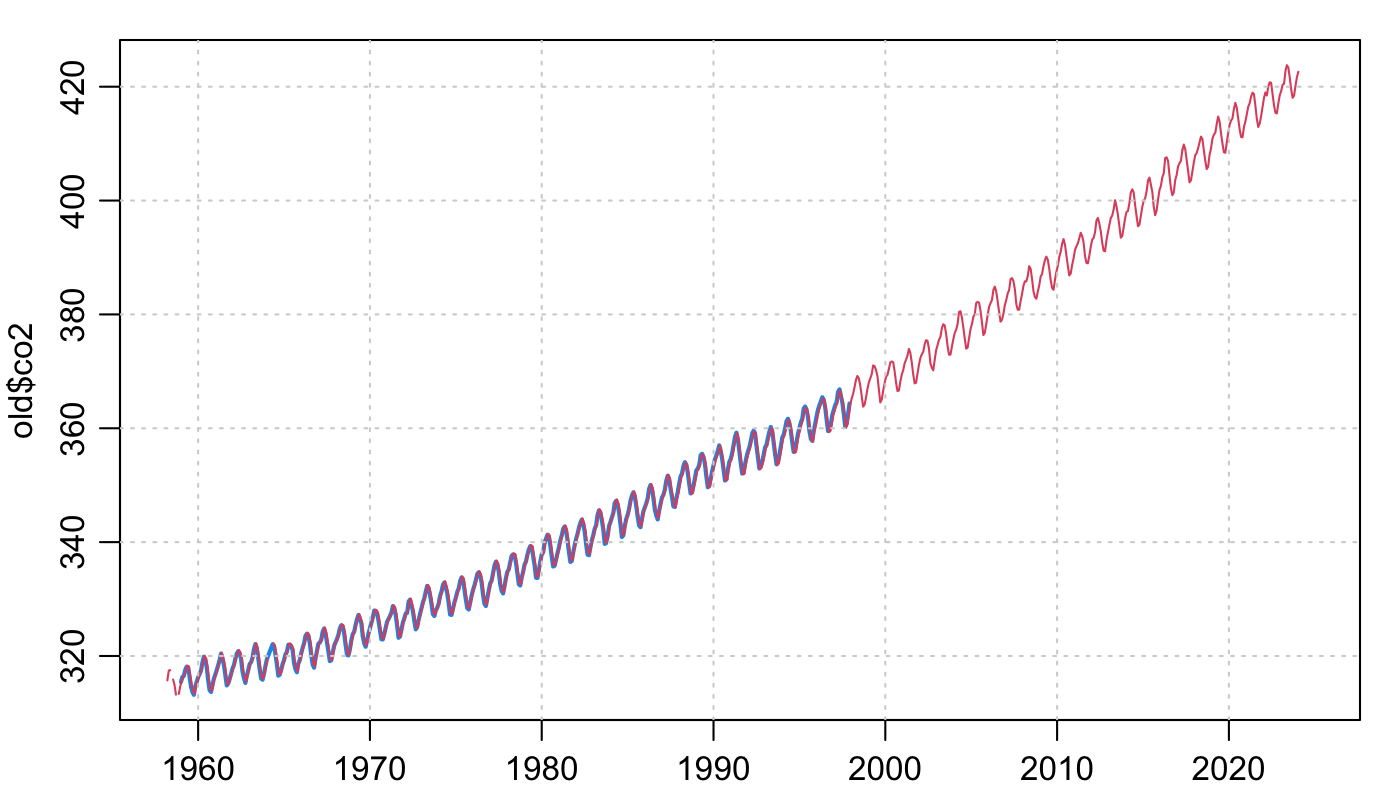
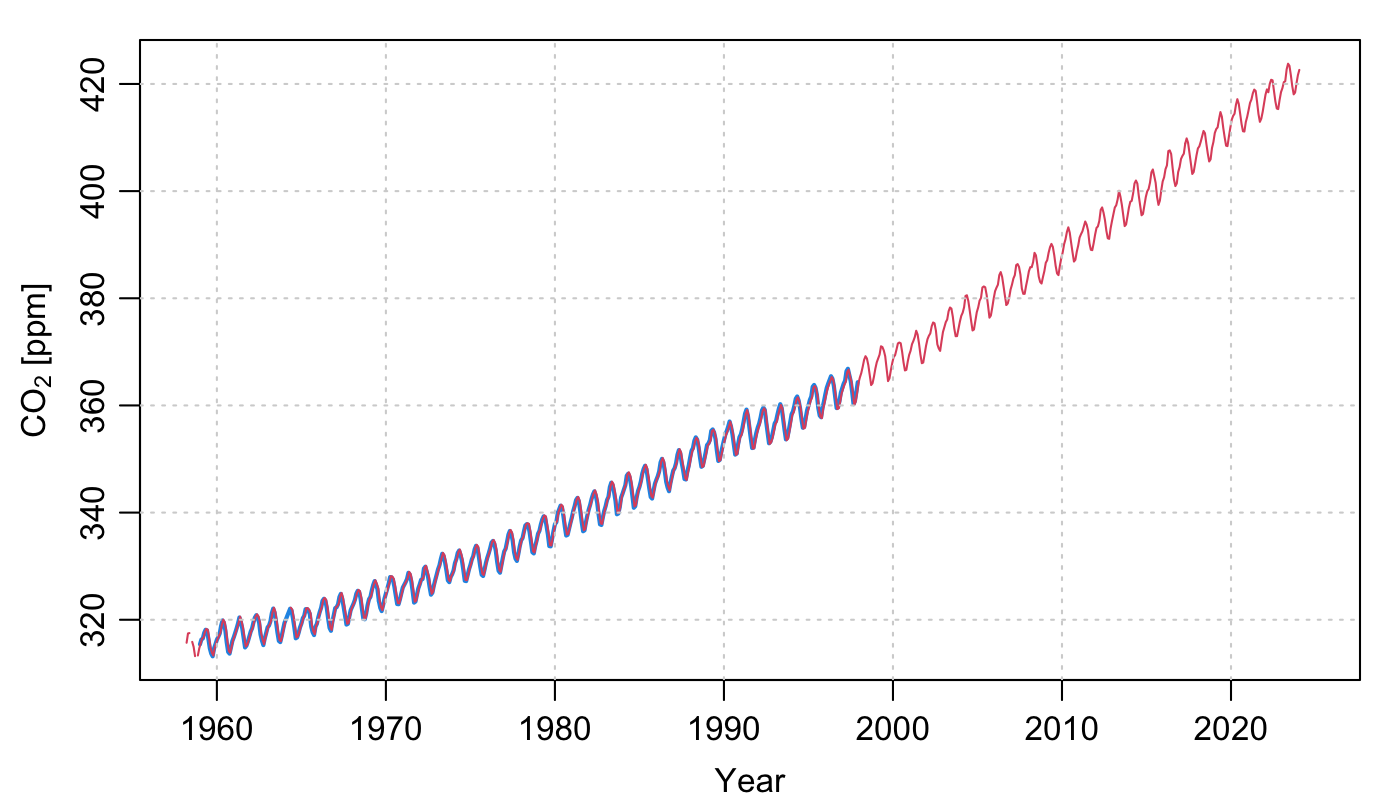
label

diff --git a/_posts/2024-01-19-co2.md b/_posts/2024-01-19-co2.md
@@ -21,7 +21,7 @@ this file, downloaded on this date, will still hold in the future.
 ```R
 png("2024-02-19-co2.png", unit = "in", width = 7, height = 4, res = 200)
 
-par(mar = c(2, 3, 1, 1), mgp = c(2, 0.7, 0))
+par(mar = c(3, 3.5, 1, 1), mgp = c(2, 0.7, 0))
 # Compare built-in co2 dataset with a new dataset
 data(co2)
 old <- data.frame(year = as.numeric(time(co2)), co2 = as.vector(co2))
@@ -43,7 +43,8 @@ xlim <- range(c(old$year, new$year))
 ylim <- range(c(old$co2, new$co2), na.rm = TRUE)
 plot(old$year, old$co2,
     xlim = xlim, ylim = ylim, col = 4, type = "l", lwd = 2,
-    xlab = expression(CO[2] * " [ppm]")
+    xlab = "Year",
+    ylab = expression(CO[2] * " [ppm]")
 )
 lines(new$year, new$co2, col = 2)
 grid()
